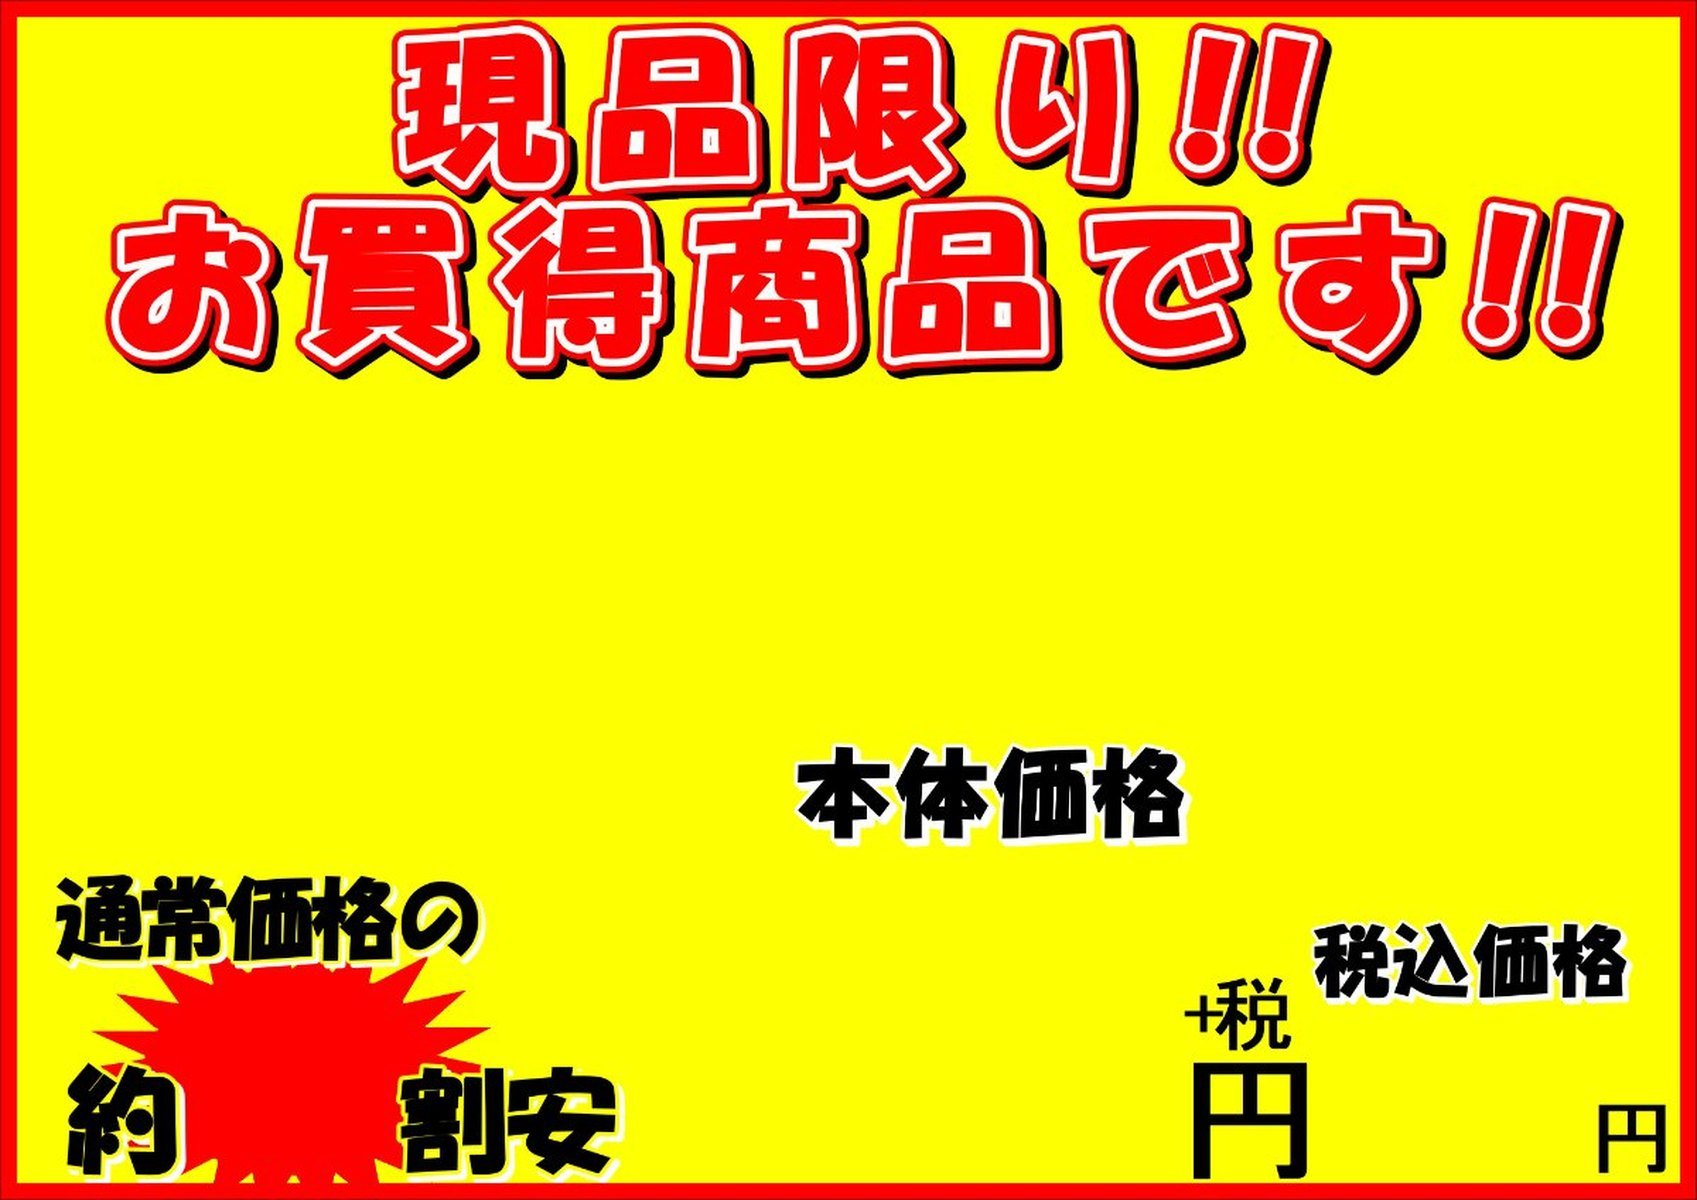
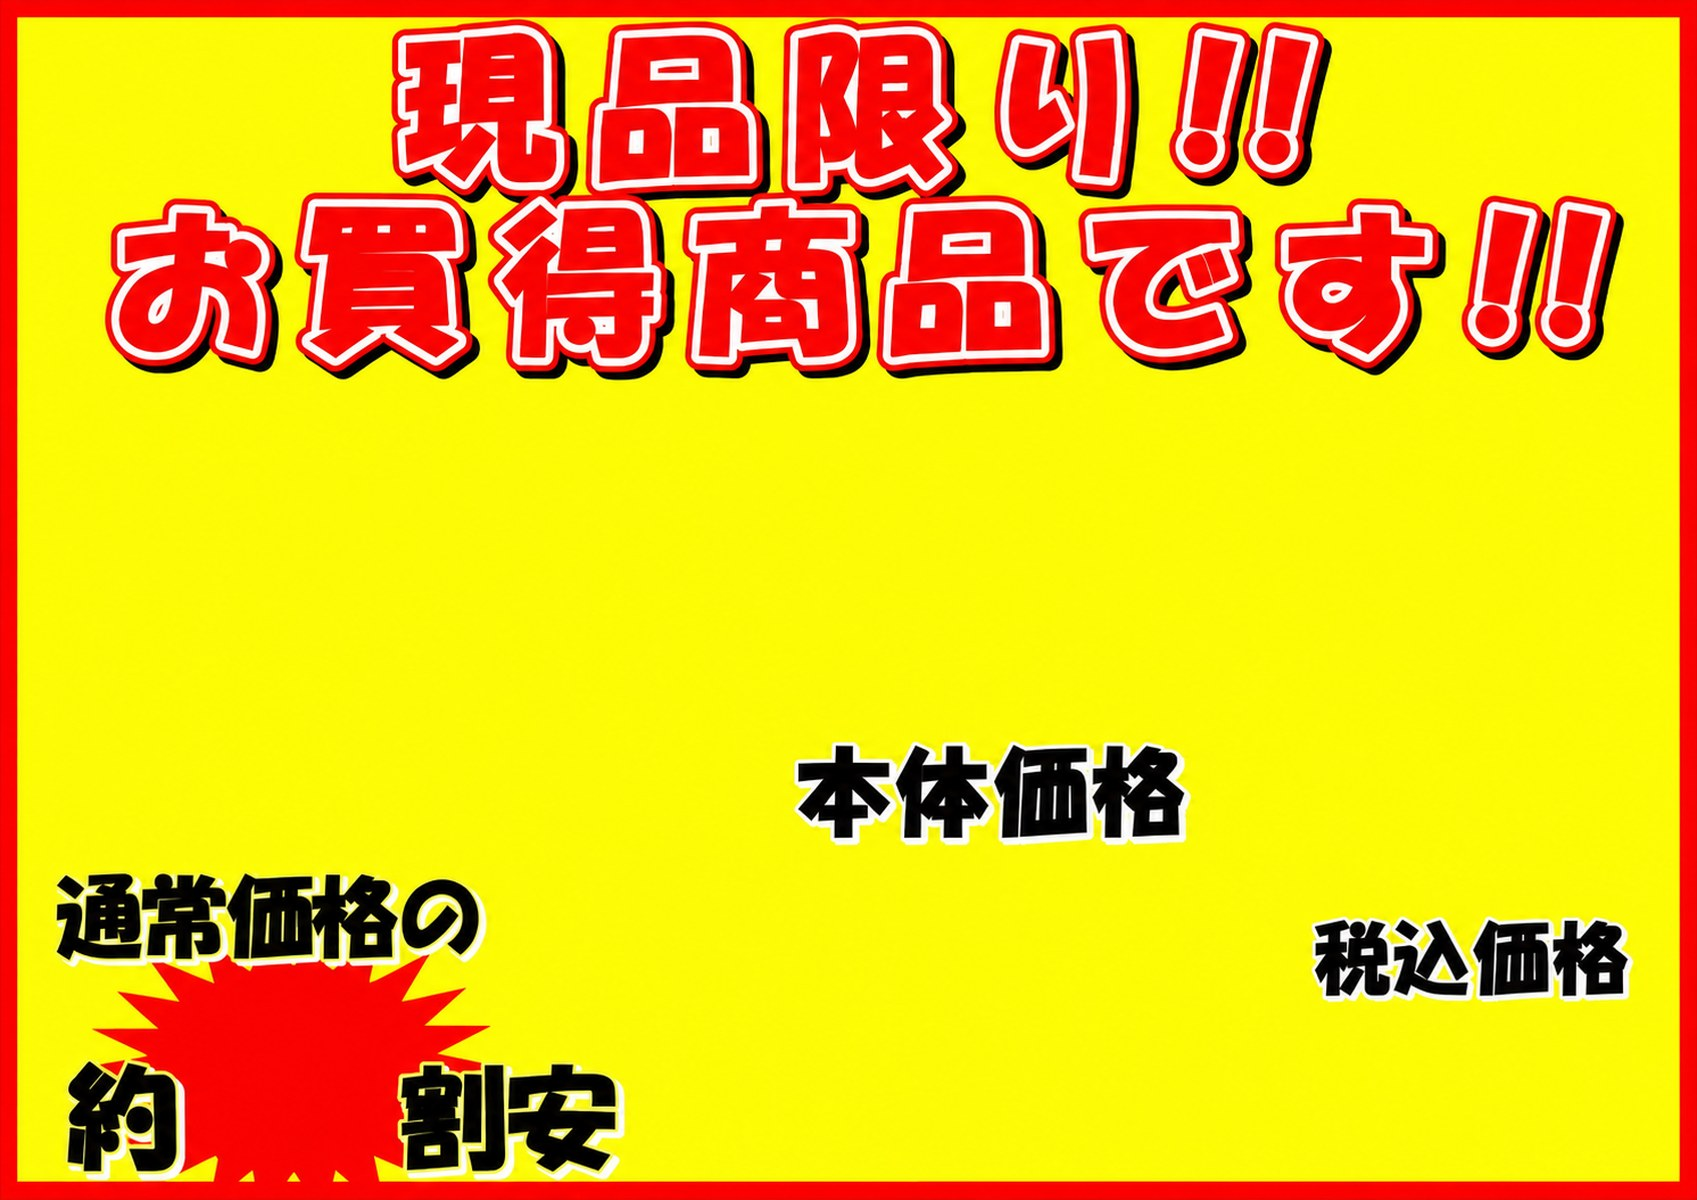
現品限り（黄）テンプレを差し替え、レイアウトを最適化（v=20260905i）

diff --git a/js/10-tab-gne.jsx b/js/10-tab-gne.jsx
@@ -77,15 +77,15 @@ const GNE_PRESETS = [
     } },
   { id:"genpin", name:"現品限り（黄）", land:true, img:"tpl/genpin.jpg", thumb:"tpl/genpin_thumb.jpg", hideFixed:true, useOff:true,
     layout:{
-      origin:   { x:110, y:470,  size:86,  fill:"#141414", stroke:"#ffffff", sw:7,  align:"left",   maxW:1480 },
-      name:     { x:848, y:630,  size:170, fill:"#141414", stroke:"#ffffff", sw:12, align:"center", maxW:1500 },
-      count:    { x:1000,y:790,  size:1,   fill:"#141414", stroke:"#141414", sw:0,  align:"center" },
-      price:    { x:1010,y:1015, size:235, fill:"#e31414", stroke:"#141414", sw:12, align:"center", maxW:520  },
-      plus:     { x:1190,y:1000, size:1,   fill:"#e31414", stroke:"#e31414", sw:0,  align:"center" },
-      yen:      { x:1230,y:1120, size:1,   fill:"#141414", stroke:"#141414", sw:0,  align:"center" },
-      taxLabel: { x:1430,y:940,  size:1,   fill:"#141414", stroke:"#141414", sw:0,  align:"center" },
-      taxPrice: { x:1480,y:1125, size:66,  fill:"#e31414", stroke:"#141414", sw:4,  align:"center" },
-      offRate:  { x:300, y:1090, size:110, fill:"#ffffff", stroke:"#141414", sw:7,  align:"center" },
+      origin:   { x:110, y:430,  size:86,  fill:"#141414", stroke:"#ffffff", sw:7,  align:"left",   maxW:1480 },
+      name:     { x:848, y:590,  size:170, fill:"#141414", stroke:"#ffffff", sw:12, align:"center", maxW:1500 },
+      count:    { x:990, y:750,  size:1,   fill:"#141414", stroke:"#141414", sw:0,  align:"center" },
+      price:    { x:990, y:1000, size:250, fill:"#e31414", stroke:"#141414", sw:12, align:"center", maxW:560  },
+      plus:     { x:1470,y:900,  size:1,   fill:"#e31414", stroke:"#e31414", sw:0,  align:"center" },
+      yen:      { x:1470,y:900,  size:1,   fill:"#141414", stroke:"#141414", sw:0,  align:"center" },
+      taxLabel: { x:1470,y:930,  size:1,   fill:"#141414", stroke:"#141414", sw:0,  align:"center" },
+      taxPrice: { x:1470,y:1090, size:88,  fill:"#e31414", stroke:"#141414", sw:5,  align:"center" },
+      offRate:  { x:341, y:1091, size:120, fill:"#ffffff", stroke:"#141414", sw:8,  align:"center" },
     } },
 ];
 

diff --git a/js/10-tab-gne.js b/js/10-tab-gne.js
@@ -535,7 +535,7 @@ const GNE_PRESETS = [{
   layout: {
     origin: {
       x: 110,
-      y: 470,
+      y: 430,
       size: 86,
       fill: "#141414",
       stroke: "#ffffff",
@@ -545,7 +545,7 @@ const GNE_PRESETS = [{
     },
     name: {
       x: 848,
-      y: 630,
+      y: 590,
       size: 170,
       fill: "#141414",
       stroke: "#ffffff",
@@ -554,8 +554,8 @@ const GNE_PRESETS = [{
       maxW: 1500
     },
     count: {
-      x: 1000,
-      y: 790,
+      x: 990,
+      y: 750,
       size: 1,
       fill: "#141414",
       stroke: "#141414",
@@ -563,18 +563,18 @@ const GNE_PRESETS = [{
       align: "center"
     },
     price: {
-      x: 1010,
-      y: 1015,
-      size: 235,
+      x: 990,
+      y: 1000,
+      size: 250,
       fill: "#e31414",
       stroke: "#141414",
       sw: 12,
       align: "center",
-      maxW: 520
+      maxW: 560
     },
     plus: {
-      x: 1190,
-      y: 1000,
+      x: 1470,
+      y: 900,
       size: 1,
       fill: "#e31414",
       stroke: "#e31414",
@@ -582,8 +582,8 @@ const GNE_PRESETS = [{
       align: "center"
     },
     yen: {
-      x: 1230,
-      y: 1120,
+      x: 1470,
+      y: 900,
       size: 1,
       fill: "#141414",
       stroke: "#141414",
@@ -591,8 +591,8 @@ const GNE_PRESETS = [{
       align: "center"
     },
     taxLabel: {
-      x: 1430,
-      y: 940,
+      x: 1470,
+      y: 930,
       size: 1,
       fill: "#141414",
       stroke: "#141414",
@@ -600,21 +600,21 @@ const GNE_PRESETS = [{
       align: "center"
     },
     taxPrice: {
-      x: 1480,
-      y: 1125,
-      size: 66,
+      x: 1470,
+      y: 1090,
+      size: 88,
       fill: "#e31414",
       stroke: "#141414",
-      sw: 4,
+      sw: 5,
       align: "center"
     },
     offRate: {
-      x: 300,
-      y: 1090,
-      size: 110,
+      x: 341,
+      y: 1091,
+      size: 120,
       fill: "#ffffff",
       stroke: "#141414",
-      sw: 7,
+      sw: 8,
       align: "center"
     }
   }

diff --git a/js/01-config.jsx b/js/01-config.jsx
@@ -37,6 +37,7 @@ const FLOOR_STORES = ["北部店","木次店","大田店","斐川店","医大通
 // パスワードはSupabase側（verify_password関数）で照合。生の値はこのファイルに持たない。
 // 開発・お知らせタブの掲載内容。新しい更新は配列の先頭に足す。type: 新機能 / 修正 / お知らせ
 const ANNOUNCEMENTS = [
+  { date:"2026-09-05", type:"改善", title:"現品限り（黄）のテンプレを差し替えました", body:"新しいテンプレに合わせて配置を調整しました。「本体価格」の下に価格、「税込価格」の下に税込が入ります。星の中には割安の数字が入ります。" },
   { date:"2026-09-05", type:"修正", title:"【修正】一覧でまとまりが1つにならない問題を解消", body:"まとめたはずのポップが、一覧でバラバラのままだった不具合を直しました。まとまりは1件だけ表示され、カードにはまとまりの名前が出ます。右上の枚数を押すと中身が全部見られます。" },
   { date:"2026-09-05", type:"新機能", title:"あとからポップをまとめられます", body:"管理画面のアーカイブ管理で選んで「まとめる」を押すと、1つのまとまりにできます。すでにバラバラに投稿したポップも、あとから曜日販促などにまとめられます。まとまりを解除してバラバラに戻すこともできます。" },
   { date:"2026-09-05", type:"改善", title:"まとまりの枚数を右上に表示", body:"曜日販促などまとめて投稿したポップは、一覧に1つだけ出ます。右上にフォルダのマークと枚数が付き、押すと中身が全部見られます。" },

diff --git a/index.html b/index.html
@@ -227,21 +227,21 @@ setTimeout(function(){
 }, 8000);
 </script>
 <div id="root"></div>
-<script src="js/01-config.js?v=20260905h"></script>
-<script src="js/02-api.js?v=20260905h"></script>
-<script src="js/03-utils.js?v=20260905h"></script>
-<script src="js/04-shared.js?v=20260905h"></script>
-<script src="js/05-tab-board.js?v=20260905h"></script>
-<script src="js/06-tab-create.js?v=20260905h"></script>
-<script src="js/07-tab-floor.js?v=20260905h"></script>
-<script src="js/09-tab-info.js?v=20260905h"></script>
-<script src="js/11-tab-check-fish.js?v=20260905h"></script>
-<script src="js/12-tab-learn.js?v=20260905h"></script>
-<script src="js/14-app.js?v=20260905h"></script>
+<script src="js/01-config.js?v=20260905i"></script>
+<script src="js/02-api.js?v=20260905i"></script>
+<script src="js/03-utils.js?v=20260905i"></script>
+<script src="js/04-shared.js?v=20260905i"></script>
+<script src="js/05-tab-board.js?v=20260905i"></script>
+<script src="js/06-tab-create.js?v=20260905i"></script>
+<script src="js/07-tab-floor.js?v=20260905i"></script>
+<script src="js/09-tab-info.js?v=20260905i"></script>
+<script src="js/11-tab-check-fish.js?v=20260905i"></script>
+<script src="js/12-tab-learn.js?v=20260905i"></script>
+<script src="js/14-app.js?v=20260905i"></script>
 
 <!-- 遅延読み込み：重いタブ（バーコード/入力ジェネレーター/魚図鑑/管理画面）は開いた時に読み込む -->
 <script>
-window.APP_VER = "20260905h";
+window.APP_VER = "20260905i";
 window.__lazyLoaded = {};
 window.loadLazyTab = function(name){
   return new Promise(function(resolve, reject){
